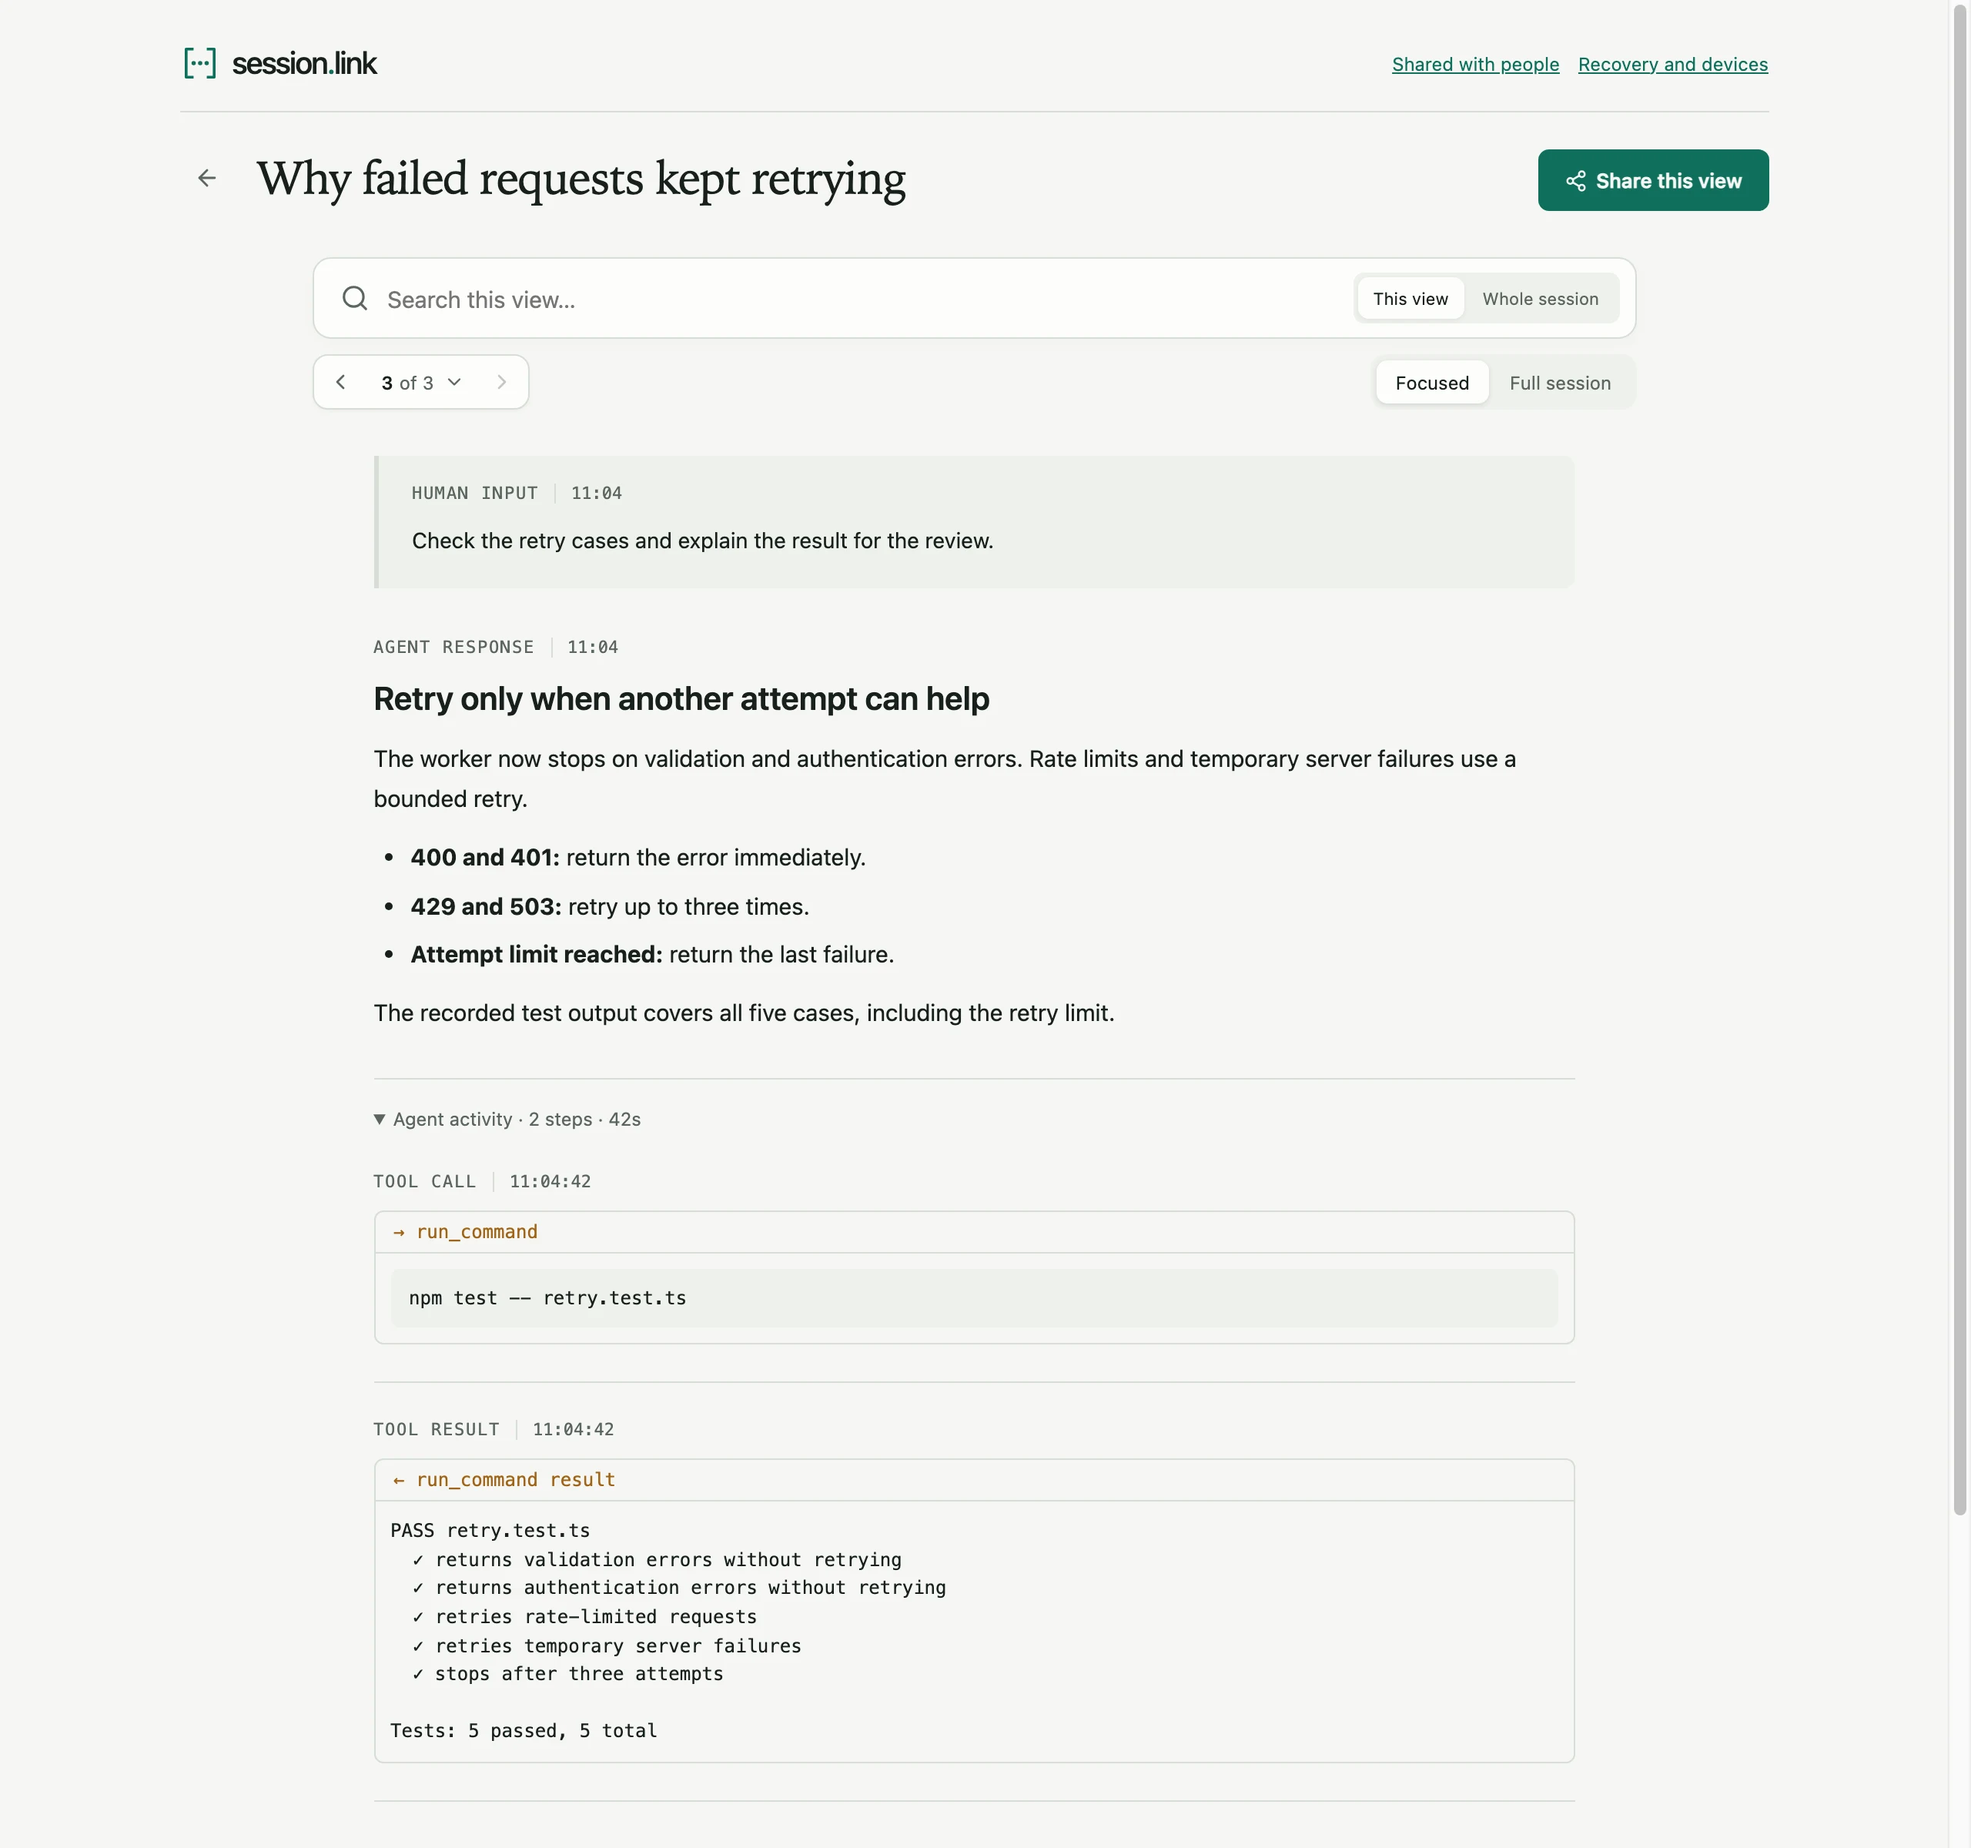
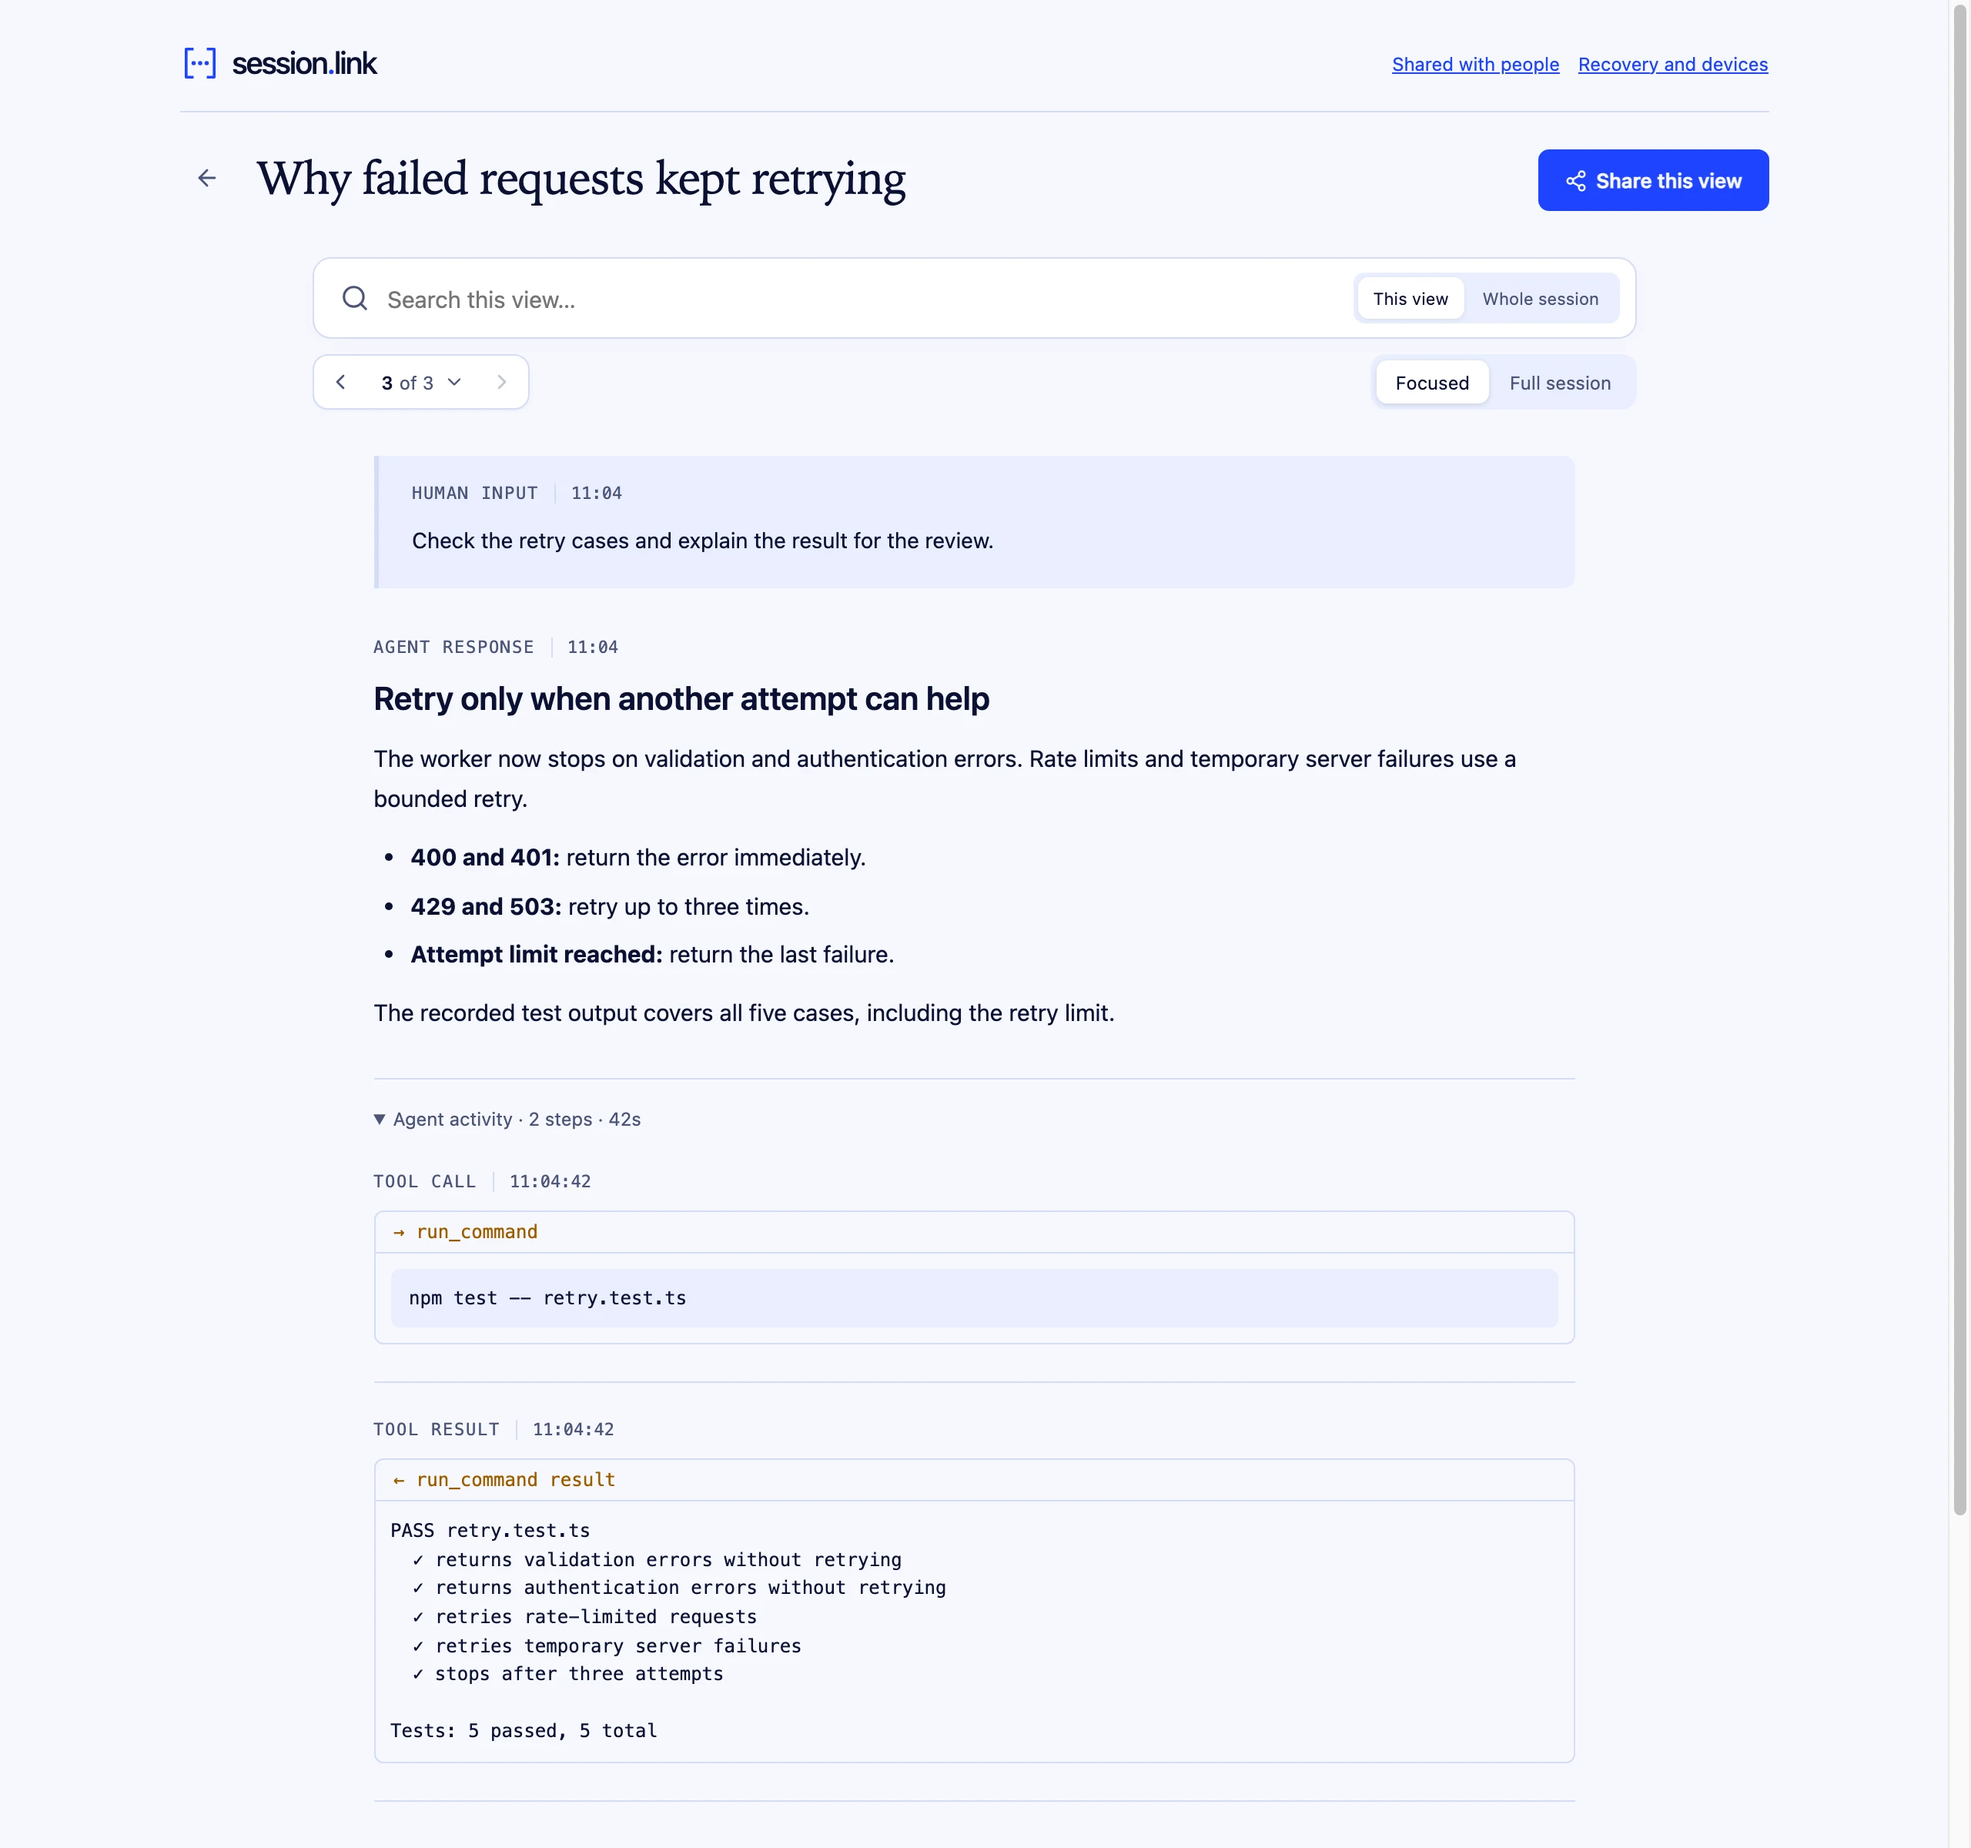
Give the viewer the landing page's white and cobalt palette
The landing page moved to cool white and cobalt on 2026-10-07 while the
viewer kept its porcelain and viridian, so the live example in the hero and
every `slink view` page looked like a different product. The viewer now
takes the landing page's values: paper #f6f8ff, white panels, navy ink
#0a1033 and cobalt #1f44ff as the signal color. Its dark theme sits on the
navy of the landing page's terminals, #0b1030, with a lighter cobalt.

The span hues are picked again to sit beside cobalt: model calls take the
signal color, tools stay amber, retrieval moves to cyan and agents to
purple. Each one, and the error red, keeps at least 4.5:1 against paper,
panel and the soft surface in both themes.

The same values go into the pages the Go server renders, the fixture
preview and the brand assets: the mark, the favicon, the wordmark and the
fallbacks in brand.css. The primary button on the Go pages now takes its
text color from the paper token, as the viewer's does, so it stays legible
on the lighter cobalt of the dark theme. One error tint in the trace
explorer was a fixed color and now follows the theme.

The product screenshots are recaptured. The demo GIF and the social preview
still show the old green.

Changed region(s): [[0.7812, 0.0312, 0.9062, 0.125], [0.7188, 0.0312, 0.7812, 0.0625]]

diff --git a/packages/viewer/RunViewer.tsx b/packages/viewer/RunViewer.tsx
@@ -53,8 +53,8 @@ const HUES: Record<string, string> = {
 const spanHue = (s: Span) =>
   s.status === "error" ? T.error : (HUES[s.type] ?? HUES.custom);
 
-const LIGHT_VARS = `--rv-paper:#f5f6f3;--rv-panel:#fdfdfb;--rv-soft:#eef1ec;--rv-ink:#17201c;--rv-faint:#5b6660;--rv-line:#d8ddd7;--rv-signal:#0e6f5c;--rv-error:#b3402e;--rv-hue-llm:#0e6f5c;--rv-hue-tool:#a16418;--rv-hue-ret:#28629c;--rv-hue-agent:#5b4b8a;--rv-selbg:rgba(14,111,92,.08);--rv-selection:rgba(14,111,92,.18);--rv-hover:rgba(23,32,28,.045);--rv-errbg:rgba(179,64,46,.06)`;
-const DARK_VARS = `--rv-paper:#101512;--rv-panel:#171d19;--rv-soft:#1e2620;--rv-ink:#e3e9e4;--rv-faint:#8f9a93;--rv-line:#2b342d;--rv-signal:#3fae94;--rv-error:#e08070;--rv-hue-llm:#3fae94;--rv-hue-tool:#c9924a;--rv-hue-ret:#6aa3d8;--rv-hue-agent:#a08fd0;--rv-selbg:rgba(63,174,148,.12);--rv-selection:rgba(63,174,148,.25);--rv-hover:rgba(227,233,228,.05);--rv-errbg:rgba(224,128,112,.1)`;
+const LIGHT_VARS = `--rv-paper:#f6f8ff;--rv-panel:#fff;--rv-soft:#e9eeff;--rv-ink:#0a1033;--rv-faint:#4c557a;--rv-line:#d5dcf5;--rv-signal:#1f44ff;--rv-error:#c2362b;--rv-hue-llm:#1f44ff;--rv-hue-tool:#9f5c00;--rv-hue-ret:#07749b;--rv-hue-agent:#8a3ad1;--rv-selbg:rgba(31,68,255,.07);--rv-selection:rgba(31,68,255,.18);--rv-hover:rgba(10,16,51,.045);--rv-errbg:rgba(194,54,43,.06)`;
+const DARK_VARS = `--rv-paper:#0b1030;--rv-panel:#121a45;--rv-soft:#18204f;--rv-ink:#e6eaff;--rv-faint:#8f99c9;--rv-line:#283266;--rv-signal:#7d9bff;--rv-error:#e87c68;--rv-hue-llm:#7d9bff;--rv-hue-tool:#e0a658;--rv-hue-ret:#5cc8ff;--rv-hue-agent:#c9a0ff;--rv-selbg:rgba(125,155,255,.12);--rv-selection:rgba(125,155,255,.28);--rv-hover:rgba(230,234,255,.05);--rv-errbg:rgba(232,124,104,.1)`;
 
 export const RV_CSS = `
 .rv{${LIGHT_VARS}}
@@ -2276,7 +2276,7 @@ function LoadedViewer({ run, initialMode, compact = false }: { run: Run; initial
                 <div
                   style={{
                     border: `1px solid ${T.error}`,
-                    background: "rgba(179,64,46,0.06)",
+                    background: "var(--rv-errbg)",
                     color: T.error,
                     borderRadius: 6,
                     padding: "8px 12px",

diff --git a/assets/brand/brand.css b/assets/brand/brand.css
@@ -1,8 +1,8 @@
-.slink-brand{display:inline-flex;align-items:center;gap:10px;color:var(--ink,#17201c);font:500 25px/1 system-ui,-apple-system,"Segoe UI",Roboto,sans-serif;letter-spacing:-.045em;text-decoration:none;white-space:nowrap}
+.slink-brand{display:inline-flex;align-items:center;gap:10px;color:var(--ink,#0a1033);font:500 25px/1 system-ui,-apple-system,"Segoe UI",Roboto,sans-serif;letter-spacing:-.045em;text-decoration:none;white-space:nowrap}
 .slink-brand:hover{text-decoration:none}
-.slink-brand:focus-visible{outline:2px solid var(--signal,#0e6f5c);outline-offset:4px;border-radius:4px}
+.slink-brand:focus-visible{outline:2px solid var(--signal,#1f44ff);outline-offset:4px;border-radius:4px}
 .slink-brand-mark{display:block;flex:none;width:32px;height:32px}
 .slink-brand-name{display:block}
-.slink-brand-dot{color:var(--signal,#0e6f5c)}
+.slink-brand-dot{color:var(--signal,#1f44ff)}
 .slink-brand--compact{gap:8px;font-size:20px}
 .slink-brand--compact .slink-brand-mark{width:26px;height:26px}

diff --git a/go/internal/open/open.go b/go/internal/open/open.go
@@ -38,11 +38,11 @@ var fileID = regexp.MustCompile(`^[A-Za-z0-9._-]+$`)
 var routeRe = regexp.MustCompile(`^/(r|p|compose|api/compose|api/title|api/draft|api/export|api/preview|api/document|api/publish|api/publish-preview)/([^/]+)$`)
 
 const css = `
-  :root{--paper:#f5f6f3;--panel:#fdfdfb;--ink:#17201c;--faint:#5b6660;--line:#d8ddd7;--signal:#0e6f5c;--error:#b3402e;
+  :root{--paper:#f6f8ff;--panel:#fff;--ink:#0a1033;--faint:#4c557a;--line:#d5dcf5;--signal:#1f44ff;--error:#c2362b;
     --serif:"Iowan Old Style","Palatino Linotype",Palatino,Georgia,serif;
     --mono:ui-monospace,"SF Mono",Menlo,Consolas,monospace}
   :root{color-scheme:light}
-  @media(prefers-color-scheme:dark){:root{color-scheme:dark;--paper:#101512;--panel:#171d19;--ink:#e3e9e4;--faint:#8f9a93;--line:#2b342d;--signal:#3fae94;--error:#e08070}}
+  @media(prefers-color-scheme:dark){:root{color-scheme:dark;--paper:#0b1030;--panel:#121a45;--ink:#e6eaff;--faint:#8f99c9;--line:#283266;--signal:#7d9bff;--error:#e87c68}}
   *{box-sizing:border-box}body{margin:0;background:var(--paper);color:var(--ink);
     font-family:system-ui,-apple-system,"Segoe UI",Roboto,sans-serif}
   .wrap{max-width:1080px;margin:0 auto;padding:28px 24px 64px}
@@ -54,7 +54,7 @@ const css = `
   .result-row{display:flex;justify-content:flex-end;margin:6px 0 16px}
   .btn{border:1px solid var(--line);background:var(--panel);color:var(--ink);border-radius:6px;padding:7px 14px;
     font-family:var(--mono);font-size:12px;cursor:pointer;transition:opacity .15s ease}
-  .btn.primary{background:var(--signal);border-color:var(--signal);color:#fff}
+  .btn.primary{background:var(--signal);border-color:var(--signal);color:var(--paper)}
   .btn:hover{opacity:.88}
   .note{font-family:var(--mono);font-size:12px;color:var(--faint);overflow-wrap:anywhere}
   .result{font-family:var(--mono);font-size:12px;overflow-wrap:anywhere}
@@ -62,7 +62,7 @@ const css = `
   .card{display:block;background:var(--panel);border:1px solid var(--line);border-radius:10px;
     padding:14px 18px;margin-bottom:10px;color:var(--ink);text-decoration:none;
     transition:border-color .15s ease,box-shadow .15s ease,transform .15s ease}
-  .card:hover{border-color:#b9c4bb;box-shadow:0 2px 14px rgba(23,32,28,.07);transform:translateY(-1px)}
+  .card:hover{border-color:color-mix(in srgb,var(--faint) 45%,var(--line));box-shadow:0 2px 14px rgba(10,16,51,.07);transform:translateY(-1px)}
   .card:hover .t{color:var(--signal)}
   .card .t{font-family:var(--serif);font-size:18px;margin-bottom:3px}
   .card .m{font-family:var(--mono);font-size:12px;color:var(--faint);overflow-wrap:anywhere}
@@ -73,7 +73,7 @@ const css = `
   .hid{font-family:var(--mono);font-size:.72em}
   dialog{background:var(--panel);color:var(--ink);border:1px solid var(--line);border-radius:10px;
     padding:20px 22px;max-width:460px;width:calc(100% - 48px)}
-  dialog::backdrop{background:rgba(23,32,28,.35)}
+  dialog::backdrop{background:rgba(10,16,51,.35)}
   .kv{display:flex;gap:12px;font-family:var(--mono);font-size:12px;margin:4px 0}
   .kv .k{color:var(--faint);flex:none;width:52px}
   .kv .v{word-break:break-all}

diff --git a/go/internal/open/handoff.go b/go/internal/open/handoff.go
@@ -165,8 +165,8 @@ const (
 // listCSS gives the session lists the viewer's quiet header, search field
 // and grouped rows, on the shared tokens.
 const listCSS = `<style>
-  :root{--soft:#eef1ec}
-  @media(prefers-color-scheme:dark){:root{--soft:#1e2620}}
+  :root{--soft:#e9eeff}
+  @media(prefers-color-scheme:dark){:root{--soft:#18204f}}
   .wrap{max-width:860px}
   .list-head{display:flex;align-items:center;justify-content:space-between;gap:16px;margin:10px 0 28px}
   .list-head h1{margin:0;min-width:0;font:500 32px/1.2 var(--serif);letter-spacing:-.02em;overflow-wrap:anywhere}

diff --git a/README.md b/README.md
@@ -5,8 +5,8 @@
 **Turn coding-agent sessions into links your colleagues can actually read.**
 
 [![CI](https://img.shields.io/github/actions/workflow/status/lftherios/session-link/ci.yml?branch=main&label=ci)](https://github.com/lftherios/session-link/actions)
-[![npm](https://img.shields.io/npm/v/session.link?color=0e6f5c&label=session.link)](https://www.npmjs.com/package/session.link)
-[![license](https://img.shields.io/badge/license-MIT-0e6f5c)](LICENSE)
+[![npm](https://img.shields.io/npm/v/session.link?color=1f44ff&label=session.link)](https://www.npmjs.com/package/session.link)
+[![license](https://img.shields.io/badge/license-MIT-1f44ff)](LICENSE)
 
 [![The session.link reader: a human input, the agent's response and its collapsed activity](https://raw.githubusercontent.com/lftherios/session-link/main/assets/product/focused.webp)](https://session.link/demo)
 

diff --git a/assets/brand/README.md b/assets/brand/README.md
@@ -6,6 +6,12 @@ It keeps the brackets, stroke and proportions of the original Excerpt mark
 (two lines and a dot), which it replaced on 2026-10-07. The diagonal-arrow
 explorations were not selected.
 
+The brand colors are cobalt `#1f44ff` for the mark and the wordmark's dot and
+navy `#0a1033` for the wordmark, on cool white `#f6f8ff`. On dark surfaces the
+cobalt lightens to `#7d9bff` over navy `#0b1030`. The viewer and the landing
+page share these values; the viewer's full token list is in
+`packages/viewer/RunViewer.tsx`.
+
 `mark.svg` uses the surrounding `--signal` color when embedded inline, including
 the local viewer's dark theme. `favicon.svg` adapts to light and dark browser
 chrome. Keep the geometry identical between these two assets.

diff --git a/assets/product/README.md b/assets/product/README.md
@@ -1,8 +1,8 @@
 # Product screenshots
 
 These are browser captures of the current local product, built from the working
-tree at `2e3d79b` with the Elision mark, the adopted identity. The interface is
-captured as rendered by the product, at a device scale factor of 2, so each
+tree at `4a3c9e1` with the Elision mark and the white and cobalt palette. The
+interface is captured as rendered by the product, at a device scale factor of 2, so each
 file has twice the pixel dimensions listed below and stays sharp on HiDPI
 screens. Sizes are CSS pixels; the landing page declares the same sizes. The sessions are fictional examples
 from [`testdata/landing/sessions.mjs`](../../testdata/landing/sessions.mjs), not
